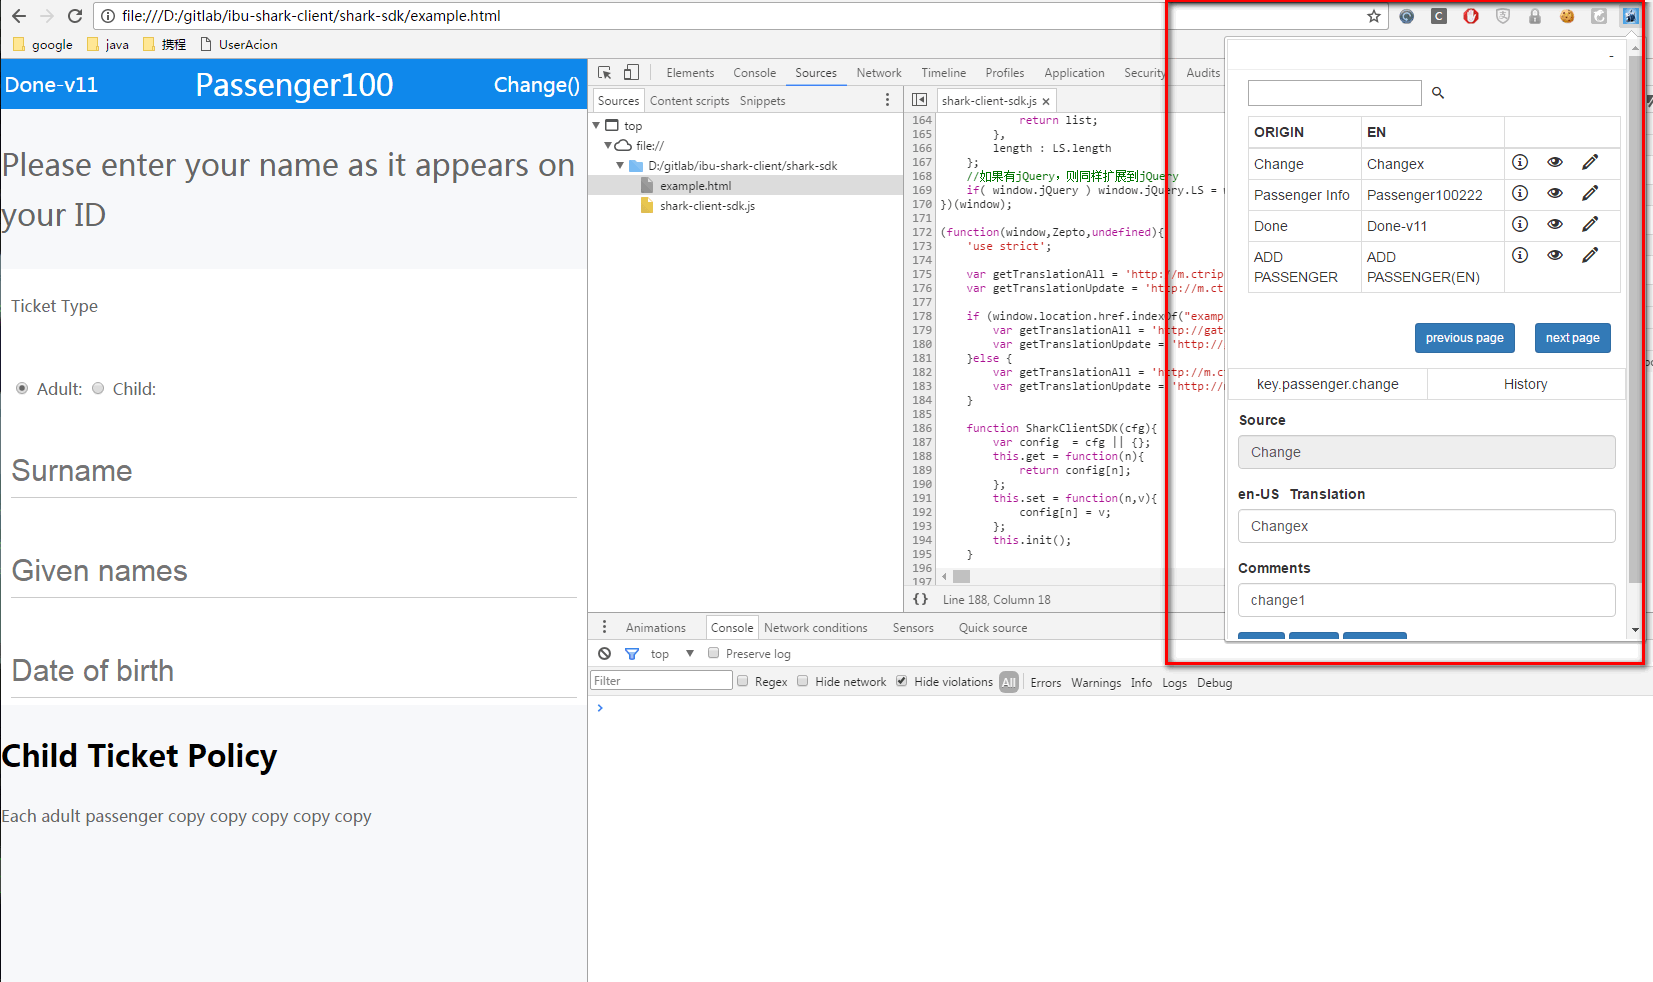
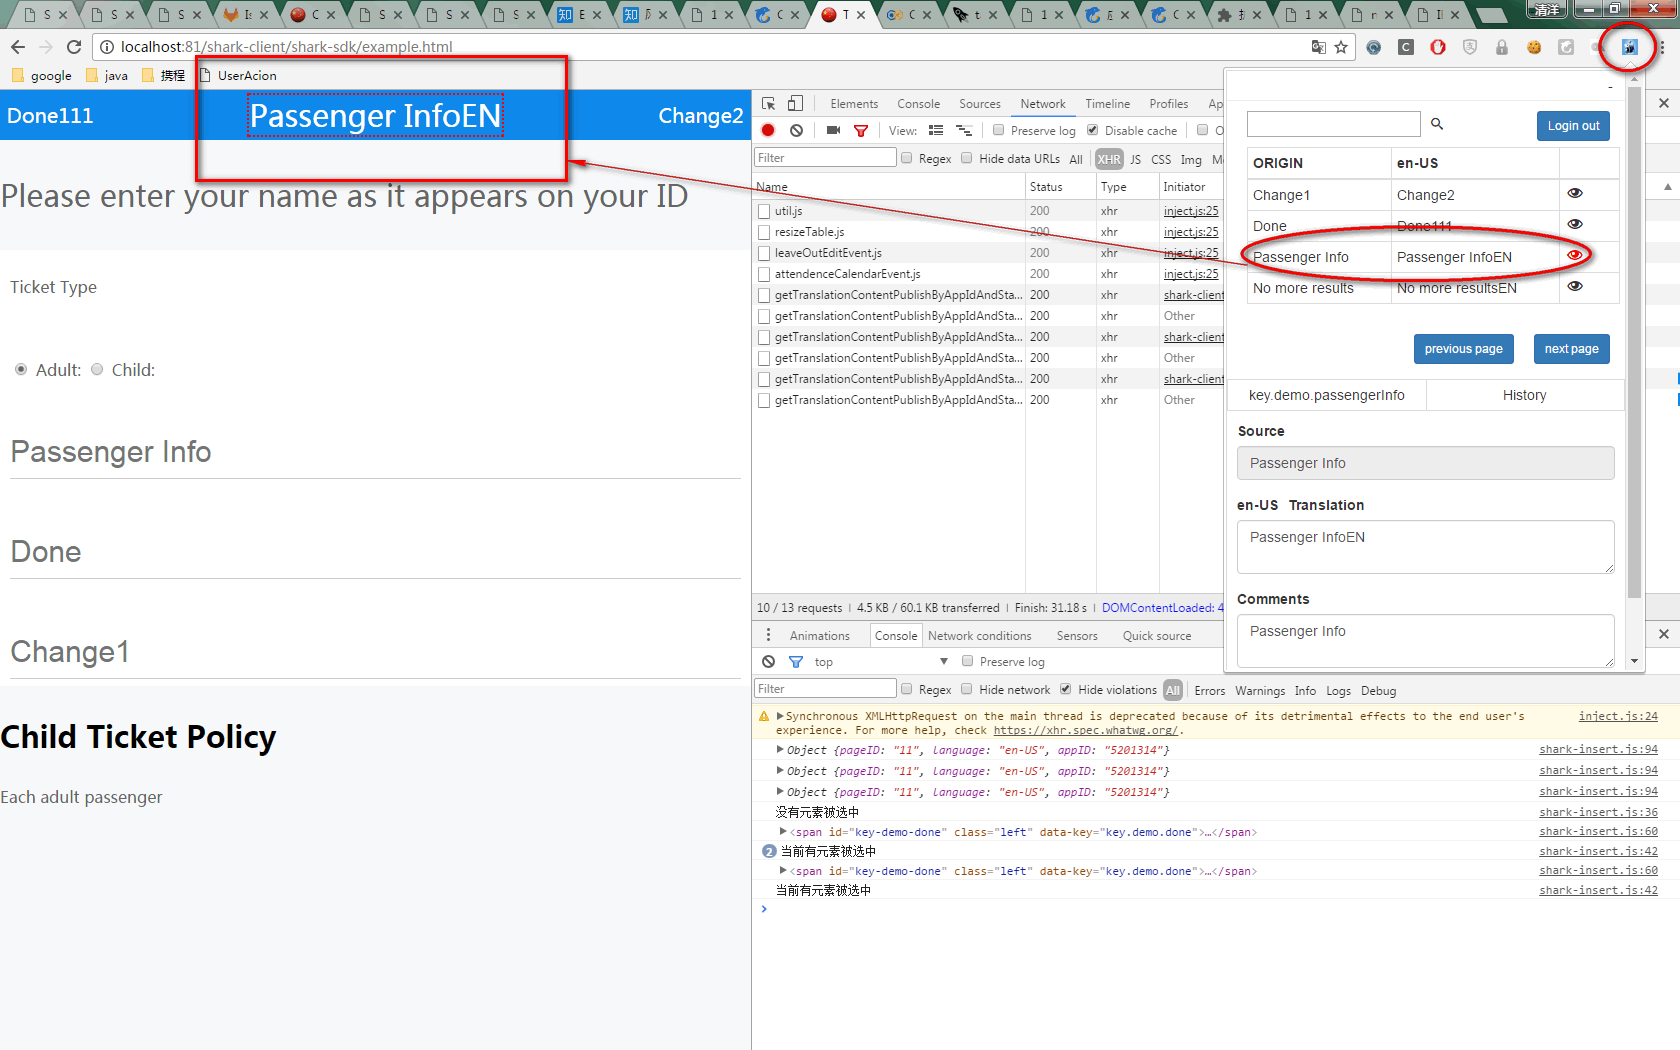
add new ppt

diff --git a/article/2017-05-26-weekly.md b/article/2017-05-26-weekly.md
@@ -1,0 +1,90 @@
+# ELSE 技术周刊（2017.05.26 期）
+
+## 业界动态
+[GitLab 9.2 发布，简化多人协作&增强本地化](http://link.zhihu.com/?target=https%3A//github.com/gitlabhq/gitlabhq/blob/master/CHANGELOG.md)
+GitLab 9.2 发布了，新版本旨在让团队的每个人都能够贡献他们力量，不管是远程或在同个房间。
+
+[The state of JavaScript modules](http://link.zhihu.com/?target=https%3A//medium.com/webpack/the-state-of-javascript-modules-4636d1774358)
+文章介绍 ES Modules 在浏览器以及 Node.js 的现状。不同浏览器的最新版已经开始不同程度的支持，但具体规则还有待统一完善，而在 Node 的不确定性更多。但我们现在仍然可以使用 ESM 编写代码，再利用 Webpack，Rollup 以及 babel 等工具适配不同的环境。
+
+[Workbox: JavaScript Libraries for Progressive Web Apps](http://link.zhihu.com/?target=https%3A//workboxjs.org/)
+Workbox 是对 Google 以前的 service worker 库的重新思考，重点是模块化。
+
+[This is What Microsoft Said About Progressive Web Apps at Build](http://link.zhihu.com/?target=https%3A//www.thurrott.com/windows/windows-10/116101/microsoft-said-progressive-web-apps-build)
+
+作者预测 Progressive Web Apps（PWAs）和其他混合应用程序将比 Windows 10 上的 Universal Windows Platform（UWP）应用程序更受欢迎。看看微软在 Build 大会是怎么谈论 PWAs 的。
+
+## 技术纵横
+[VR进化论|教你搭建通用的WebVR工程](http://link.zhihu.com/?target=http%3A//mp.weixin.qq.com/s/-Dy5BXSULDoDDE1gbclSOg)
+本文旨在介绍如何搭建WebVR工程以支持多场景开发。
+
+[the-many-faces-of-functions-in-javascript](http://link.zhihu.com/?target=https%3A//bocoup.com/blog/the-many-faces-of-functions-in-javascript)
+
+js的函数使用到底有多少种 ？ 文章从最基础的函数声明及函数表达式切入，到构造函数，渐进到ES6的箭头函数、生成器，最后到ES7的各种异步函数，让你对javaScript的函数有个更全局的认识。
+
+[技术决定历史](http://link.zhihu.com/?target=http%3A//www.ruanyifeng.com/blog/2017/05/technology-is-future.html)
+
+本文选自作者正在写的新书《未来世界的幸存者》，“主导历史的因素，短期（一年到几年）是政治，中期（几年到几十年）是经济，长期（几十年到几百年）则是技术” 。 试想过 如果中国参与了前两次世界革命，现在会是什么样？~~
+
+[10 个基于 JavaScript 的机器学习实例](https://zhuanlan.zhihu.com/p/26709518)
+
+前端也能撸的机器学习案例， 我是看了第7个决定转的
+
+[Redis学习笔记(一)：初识Redis](http://link.zhihu.com/?target=http%3A//lawtech0902.com/2017/03/25/Redis-1/)
+
+Redis的简介，安装（Mac)以及与memcached及其他类型数据库对比
+
+## 前端技术
+[Server side rendering with React and Express](http://link.zhihu.com/?target=https%3A//medium.com/front-end-hacking/server-side-rendering-with-react-and-express-382591bfc77c)
+
+实现express+react服务端渲染的基本套路
+
+[Redux状态管理之痛点、分析与改良](https://zhuanlan.zhihu.com/p/27093191)
+
+深入分析了redux存在的一些问题
+
+[单页应用的数据流方案探索](https://zhuanlan.zhihu.com/p/26426054)
+
+民工叔抽象的对单页数据流进行的分析，需要细读细思
+
+[Elm入门实践（一）——基础篇](http://link.zhihu.com/?target=https%3A//segmentfault.com/a/1190000005701562)
+
+Elm 是一门专注于Web前端的纯函数式语言。你可能没听说过它，但一定听说过Redux，而Redux的核心reducer就是受到了Elm的启发。
+
+## 实用推荐
+[nodemon (auto restart when code has changed)](http://link.zhihu.com/?target=https%3A//github.com/remy/nodemon)
+
+一个实时检测服务端代码变动并重启的小工具
+
+[node-inspector (debug node simply in browser)](http://link.zhihu.com/?target=https%3A//github.com/node-inspector/node-inspector)
+
+用于在浏览器中调试node应用的小工具
+
+[babel-cli/babel-node (useful when we use lower version node.js to develop)](http://link.zhihu.com/?target=https%3A//github.com/babel/example-node-server)
+
+用低版本node.js开发环境中使用ES2015语法时必不可少的必备利器
+
+[前端网站分享](http://link.zhihu.com/?target=http%3A//www.alloyteam.com/nav/)
+
+这是我见过最全的前端资源目录
+
+[如何开始写一本属于自己的技术书](http://link.zhihu.com/?target=https%3A//mp.weixin.qq.com/s/MsDZycS1t6Mh7WkxU-OGiw)
+
+如题。如果你还没有写一本自己的技术书，又或是不知道从何开始，不妨读读作者的经验。
+
+
+> ELSE 技术周刊由 [IFT小组](https://github.com/CtripFE) 出品，汇聚一周好文章，[周刊原文](https://zhuanlan.zhihu.com/p/27113543)。本期编辑：
+>
+> [@CurtisCBS](https://github.com/CurtisCBS) 中年人
+>
+> [@StoneZou](https://github.com/stoneyong) 前端搬砖工, 不安分于前端开发的搬砖工
+>
+> [@Steven](https://github.com/StevenX911) 从 C++ 走来，一路虐过 C#, Java, Python, Go, 现在写 Javascript
+>
+> [@mirreal](https://github.com/mirreal) 程序圈的间谍，我的梦想在浩瀚宇宙，我的征途是星辰大海
+>
+> [@sturloly](https://github.com/sturloly) building apps for my future starship
+>
+> 感谢以下同学荐稿：[@elevenbeans](https://github.com/elevenbeans)
+>
+> [点击这里](https://github.com/CtripFE/fe-weekly/issues) 向我们推荐你读到的好文章，期待你们。

diff --git a/ppt3/ibu-shark.md b/ppt3/ibu-shark.md
@@ -9,36 +9,34 @@ usemathjax: no
 <img src="/img/shark-logo.png" style="margin: 0 auto;width:200px;height:200px;" />
 # [IBU Shark 2.0](http://shark.ibu.ctripcorp.com/)
 
-
-[slide]
-# [http://shark.ibu.ctripcorp.com/](http://shark.ibu.ctripcorp.com/)
-## <iframe data-src="http://shark.ibu.ctripcorp.com/" src="about:blank;"></iframe>
-
 [slide]
 # 整体设计
 <img src="/img/shark-model-v2.png" style="margin: 0 auto;width:547px;height:795px;" />
 
 [slide]
-# 服务器部署
-<img src="/img/shark-server-v2.png" style="margin: 0 auto;width:678px;height:602px;" />
-
-[slide]
-# 功能模块
-## [Shark Portal](#5)
-## [IBU Mobile Service](#6)
-## [IBU Shark Service](#7)
-## [Shark Sketch plugin](#8)
-## [Shark JS SDK](#9)
-## [Shark Chrome Plugin](#10)
-## [Shark JAVA & .NET SDK](#11)
-
-[slide]
-# Shark Portal
+# Shark Portal #1
 <img src="/img/shark-portal-com.png" style="margin: 0 auto;width:1035px;height:590px;" />
+
+[slide]
+# Shark Portal #2
+<img src="/img/shark-portal-com-2.png" style="margin: 0 auto;width:1035px;height:590px;" />
+
+[slide]
+# Shark Portal #3
+<img src="/img/shark-portal-com-3.png" style="margin: 0 auto;width:1035px;height:590px;" />
+
+[slide]
+# Shark Portal #4
+<img src="/img/shark-portal-com-4.png" style="margin: 0 auto;width:1035px;height:590px;" />
+
+[slide]
+# Shark Portal #5
+<img src="/img/shark-portal-com-5.png" style="margin: 0 auto;width:1035px;height:590px;" />
 
 [slide]
 # IBU Mobile Service
 ## 允许外网访问，接入Redis缓存服务
+## 各客户端可以通过访问以下服务取得应用的多语言信息
 ```html
 查询列表：http://m.ctrip.com/restapi/soa2/12110/json/getTranslationContentByAppIDAndStatus
 获取增量：http://m.ctrip.com/restapi/soa2/12110/json/getTranslationContentPublishByAppIdAndStatusOrVersion
@@ -47,38 +45,41 @@ usemathjax: no
 插件登录：http://m.ctrip.com/restapi/soa2/12110/bjjson/login
 ```
 [slide]
-# IBU Shark Service
-## 仅支持内网访问
-
-[slide]
-# Shark Sketch plugin
+# Shark Sketch plugin for Mac
 
 * Installing Plugins
-- [Download the ZIP file](http://git.dev.sh.ctripcorp.com/ibu/ibu-sketch-i18n-editor/repository/archive.zip?ref=master) and unzip
+- Download the ZIP file and unzip
+- http://git.dev.sh.ctripcorp.com/ibu/ibu-sketch-i18n-editor/repository/archive.zip?ref=master
 - Open `IBUI18nEditor.sketchplugin`
-* How to
-* [Video Demo](https://cdrive.cloud.ctripcorp.com/s/7M7gdB54JL5U31e)
+* How to ?
+* View Video Demo
+- https://cdrive.cloud.ctripcorp.com/s/7M7gdB54JL5U31e
 
-[slide]
-# Shark JS SDK
-```html
-<input type="hidden" id="shark_appid" value="10000" />
-<input type="hidden" id="shark_language" value="en-US" />
-<input type="hidden" id="shark_pageid" value="31" />
-<script src="shark-client-sdk.js"></script>
-```
-```javascript
-$(function(){
-    i18n_json = JSON.parse(window.localStorage.i18n);
-    console.log(i18n_json["en-US"]["key.add.passengerInfo"]);
-});
-```
-<img src="/img/js-sdk.png" style="margin: 0 auto;width:653px;height:168px;" />
-<img src="/img/shark-localstorage.png" style="margin: 0 auto;width:527px;height:232px;" />
 
 [slide]
 # Shark Chrome Plugin
 <img src="/img/shark-chrome-plugin.png" style="margin: 0 auto;width:1563px;height:982px;" />
+
+[slide]
+# Shark Chrome Plugin HTML Page Config
+``` html
+<div class="header">
+    <span id="key-demo-done" class="left" data-key="key.demo.done">Done-v11</span>
+    <span id="key-demo-passener" class="title" data-key="key.demo.passengerInfo">Passenger Info</span>
+    <span id="key-demo-change" class="right"  data-key="key.demo.change">Change1</span>
+</div>
+```
+
+```html
+<input type="hidden" id="shark_appid" value="10000" />
+<input type="hidden" id="shark_language" value="en-US" />
+<input type="hidden" id="shark_pageid" value="31" />
+```
+
+[slide]
+# Download Shark Chrome Plugin
+### https://chrome.google.com/webstore/search/shark-plugin
+<img src="/img/shark-chrome-plugin-down.png" style="margin: 0 auto;width:1563px;height:982px;" />
 
 [slide]
 # Shark JAVA & .NET SDK
